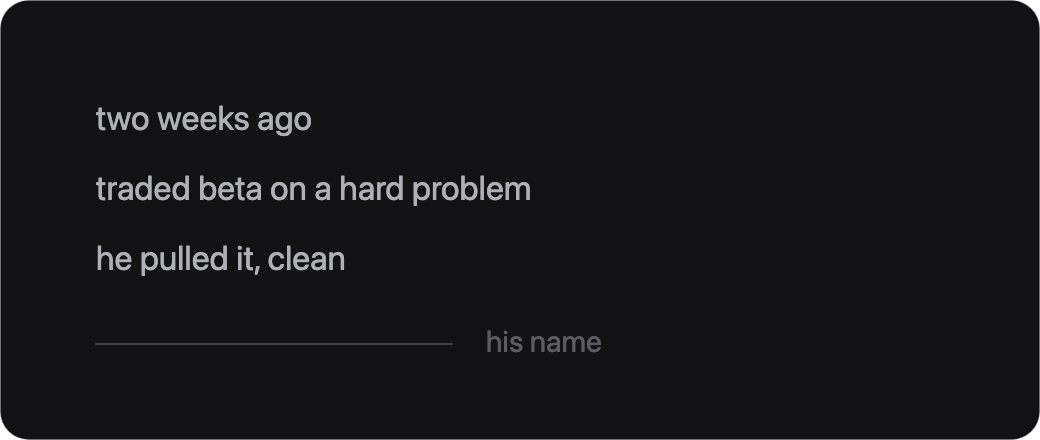
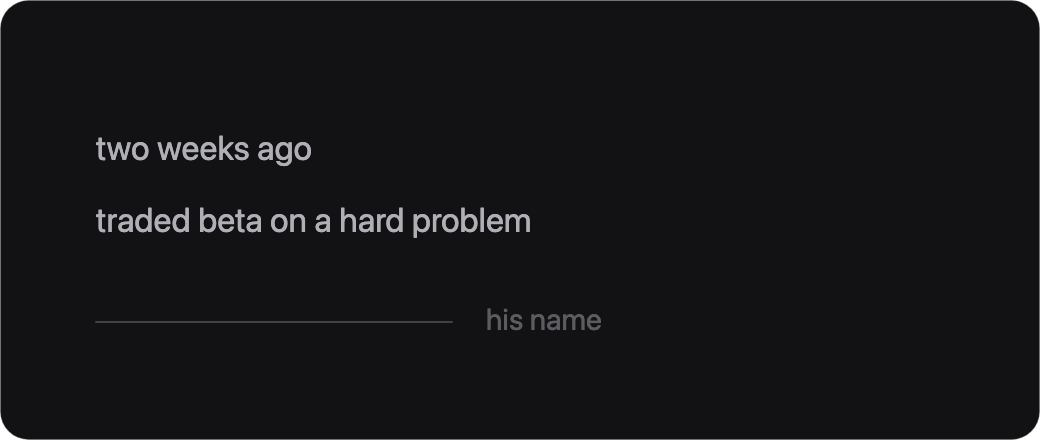
feat(field-notes): publish "I knew his face. I didn't know his name."
Broadcast fce18b48-8896-4f41-8188-b8a90e55b73e to the Atoms Notes segment.

Cut "he pulled it, clean" from the first figure. A punchy fragment that
survives inside Tai's own prose does not survive alone on an illustration
plate, where there are no surrounding sentences to earn the drama - it just
reads as trying too hard. Deleted rather than rewritten; two remembered
details and a blank line are stronger than three with a flourish.

Recorded as a hard rule in docs/voice.md (no dramatised beats; everything
gets louder set in type) and in the field-notes skill and email doc, so the
next agent does not reintroduce it.

diff --git a/www/dist/notes/knew-his-face/index.html b/www/dist/notes/knew-his-face/index.html
@@ -1,0 +1,101 @@
+<!doctype html>
+<html lang="en">
+  <head>
+    <meta charset="utf-8" />
+    <meta name="viewport" content="width=device-width, initial-scale=1" />
+    <title>I knew his face. I didn't know his name. · Field notes · Atoms</title>
+    <meta name="description" content="A guy at the climbing gym, a half-sentence in the car, and the moment the note came back." />
+    <meta name="color-scheme" content="dark light" />
+    <link rel="canonical" href="https://tryatoms.app/notes/knew-his-face/" />
+    <link rel="icon" type="image/svg+xml" href="/favicon.svg" />
+    <link rel="stylesheet" href="/a/styles.b4028b0e.css" />
+  </head>
+  <body class="notes-archive">
+    <nav class="topbar" aria-label="Site">
+      <div class="topbar-in">
+        <a class="topbar-mark" href="/">
+          <span class="sentinel" aria-hidden="true">↳</span> Atoms
+        </a>
+        <ul class="topbar-links">
+          <li><a href="/#how">How it works</a></li>
+          <li><a href="/#ask">Ask</a></li>
+          <li><a href="/#backfill">Catch up</a></li>
+          <li><a href="/#pricing">Pricing</a></li>
+          <li><a href="/notes/">Field notes</a></li>
+        </ul>
+        <a class="btn btn--primary btn--bar" href="/#pricing">Get Atoms</a>
+      </div>
+    </nav>
+    <main class="notes-main notes-main--issue">
+      <div class="wrap">
+        <p class="notes-crumb"><a href="/notes/">← All Field notes</a></p>
+        <h1>I knew his face. I didn't know his name.</h1>
+        <p class="notes-meta"><time datetime="2026-08-07">Aug 7, 2026</time></p>
+        <article class="notes-body">
+<aside class="notes-tldr"><div class="notes-tldr-label">Short version</div><p class="notes-tldr-p">Met someone at the gym. Forgot his name. Asked my notes who I'd met there. Got Dom back in two seconds, walked over, and said hi.</p><p class="notes-tldr-p">Capture is easy. Getting the note back when it matters is the hard part. That's what Atoms is for.</p></aside>
+<p class="notes-p">Two weeks ago I met a guy at my climbing gym. We ended up on the same hard problem, trading beta for a while. Then he pulled it. Clean. I still remember where I was standing.</p>
+<p class="notes-p">Last week I walked in and saw him across the gym. I knew his face. I knew we'd worked that route together. What I didn't have was his name.</p>
+<figure class="notes-figure"><img src="/email/fn-face-no-name.85602c61.png" alt="Two weeks ago, traded beta on a hard problem, and a blank line where his name should be" width="720" height="auto" loading="lazy" /></figure>
+<p class="notes-p">That's usually where it ends. You give the nod. You stay on your side of the gym. You quietly lose someone you actually liked talking to.</p>
+<h2 class="notes-h2">Two seconds</h2>
+<p class="notes-p">Instead I pulled out my phone and asked Claude who the most recent people I'd met at the gym were.</p>
+<figure class="notes-figure"><img src="/email/fn-ask-dom.4e867681.png" alt="Asked who I met at the gym. Answer: Dom, met two weeks ago" width="720" height="auto" loading="lazy" /></figure>
+<p class="notes-p">Dom. Back in about two seconds, with the context of when we met. I walked over, said hey Dom. He said hey, and called me Daniel.</p>
+<p class="notes-p">My name is not Daniel.</p>
+<h2 class="notes-h2">What actually matters</h2>
+<p class="notes-p">&quot;App remembers a name&quot; is not interesting on its own. Your phone already has a notes app. You've probably typed someone's name into it. Then you never opened it again, because that would mean remembering that you wrote something down, roughly when, and scrolling.</p>
+<p class="notes-p">That's the failure mode of every capture tool I've used. Voice memos, Apple Notes, paper, the list in my head. Good at taking a thought in. Useless at handing it back the moment I need it.</p>
+<p class="notes-p">That's what I've been building toward with Atoms. Notes that don't sit in a folder waiting for me to remember they exist. Wired to an agent that can reach them. Not &quot;search for a name I half-remember.&quot; Just: who did I meet recently. Plain language. Answered from my own life.</p>
+<p class="notes-p">Capture is the boring half. The connection is the product.</p>
+<p class="notes-p">I didn't type anything about Dom that night. I dictated a rambling half-sentence in the car. Messy, trailing off. It got filed as a clean note with his name in the title, a tag, and links to other people from that gym. I didn't name it, tag it, or pick a folder.</p>
+<figure class="notes-figure"><img src="/email/fn-messy-filed.418e76d1.png" alt="A rambling dictation trailing off, and the clean note it became: Dom, tagged gym and people" width="720" height="auto" loading="lazy" /></figure>
+<p class="notes-p">The version of me who couldn't be bothered to write it down properly is why the version of me two weeks later crossed the gym instead of nodding and walking away.</p>
+<p class="notes-p">Anyway. Dom, if you're reading this: great send, and my name is Tai.</p>
+<p class="notes-p">Want to be featured? Reply and show how you use Atoms day to day. We only name people with permission.</p>
+<p class="notes-cta"><a class="btn btn--primary" href="https://tryatoms.app/">Open tryatoms.app</a></p>
+        </article>
+        <section class="notes-signup" aria-label="Subscribe to Field notes">
+          <h2 class="notes-signup-title">Get the next one by email</h2>
+          <p class="notes-email-primary">New notes also arrive by email when you join the list.</p>
+          <form class="notes-form" data-notes-form novalidate>
+            <label class="notes-label" for="notes-knew-his-face-email">Email</label>
+            <div class="notes-row">
+              <input
+                id="notes-knew-his-face-email"
+                class="notes-input"
+                name="email"
+                type="email"
+                autocomplete="email"
+                inputmode="email"
+                required
+                placeholder="you@example.com"
+              />
+              <input
+                class="notes-hp"
+                type="text"
+                name="website"
+                tabindex="-1"
+                autocomplete="off"
+                aria-hidden="true"
+              />
+              <button class="btn btn--primary" type="submit">
+                Keep me in the loop
+              </button>
+            </div>
+            <p class="notes-hint">
+              Rare notes by email. Your stories welcome. Reply anytime after you
+              join.
+            </p>
+            <p
+              class="notes-status"
+              data-notes-status
+              role="status"
+              aria-live="polite"
+            ></p>
+          </form>
+        </section>
+      </div>
+    </main>
+    <script src="/a/app.bf77bc0d.js" defer></script>
+  </body>
+</html>

diff --git a/www/dist/notes/index.html b/www/dist/notes/index.html
@@ -34,7 +34,15 @@
           Occasional maker notes on a second brain in real life. Read any issue
           here. New ones also arrive by email.
         </p>
-        <p class="notes-empty">No notes published yet. Join the list and the first one lands in your inbox.</p>
+        <ul class="notes-list">
+      <li>
+        <a class="notes-card" href="/notes/knew-his-face/">
+          <span class="notes-card-title">I knew his face. I didn't know his name.</span>
+          <time class="notes-card-date" datetime="2026-08-07">Aug 7, 2026</time>
+          <span class="notes-card-tease">A guy at the climbing gym, a half-sentence in the car, and the moment the note came back.</span>
+        </a>
+      </li>
+    </ul>
         <section class="notes-signup" aria-label="Subscribe to Field notes">
           <h2 class="notes-signup-title">Get the next one by email</h2>
           <form class="notes-form" data-notes-form novalidate>

diff --git a/.agents/skills/field-notes/SKILL.md b/.agents/skills/field-notes/SKILL.md
@@ -65,6 +65,7 @@ Long notes always get a `tldr`. Featured invite near the end: “Want to be feat
 - **No box → arrow → box.** A blue arrow between two rounded rectangles is the single most generic thing you can draw.
 - **Colour is almost absent.** The whole three-figure set uses one amber tag, once. Everything else is white at three opacities. Amber `#ff9f0a` = a person; blue `#0a84ff` = the system answering. If you are reaching for a second accent, you are decorating.
 - **Only details the copy establishes.** Writing "tuesday night" into a figure when the letter never says Tuesday puts a false memory in the author's mouth. Pull specifics from the draft, not from your imagination.
+- **Plain recall, never a dramatised beat.** "he pulled it, clean" got cut for being cringe. A punchy fragment that survives inside Tai's prose does not survive alone on a plate, because type at that size has no sentences around it to earn the drama. Read every figure line as if it were the only sentence on screen. Cut rather than rewrite — two remembered details and a blank line beat three with a flourish. See `docs/voice.md` § Hard rules.
 - **Mind the display size.** Canvas is 1040px wide and shows at 520 in mail, so nothing under ~26px is legible. Big answers ~132px, titles ~56px, body 30–34px, labels 26–28px.
 - **Let scale and emptiness do the work.** The strongest figure in the set is a small question and an enormous name. The second strongest is three remembered details and one blank line. When a figure feels weak, remove an element rather than adding one.
 

diff --git a/docs/voice.md b/docs/voice.md
@@ -57,6 +57,8 @@ Grounded in shipped landing and home copy, `docs/design-handoff/tokens/README.md
 - **No “use case” / “use-case notes”** in user-facing marketing (sounds like a deck). Prefer *how people run it*, *practice*, *field notes*, *second brain in real life*.
 - **Numbers and locked pricing sentences** stay SSOT (`plus-pricing.json` / plugin helpers). Marketing must not invent trial or price claims.
 - **Body sacred** never gets a creative rewrite.
+- **No dramatised beats.** Punchy fragments that exist to sound cool: *he pulled it, clean* · *and just like that, it was there* · *one tap. done.* Tai's own prose earns a short beat because the sentences around it carry weight. Copy we write for him does not, and it reads as trying too hard. Say the plain thing.
+- **Set in type, everything gets louder.** A line that passes inside a paragraph can be cringe once it is alone on an illustration plate or a hero. Re-read every figure line, headline, and empty state as if it were the only sentence on screen, because it is. When in doubt, cut it rather than rewrite it — the blank usually reads better than the beat.
 
 ---
 

diff --git a/docs/field-notes-email.md b/docs/field-notes-email.md
@@ -73,6 +73,7 @@ Gmail and many clients **strip or block SVG**. Reliable path:
 - **No box → arrow → box.**
 - **Colour is almost absent.** One amber tag in the whole set. Everything else is white at three opacities.
 - **Only details the copy establishes** — an invented specific is a false memory in the author's mouth.
+- **Plain recall, never a dramatised beat.** Set in type on a plate, a punchy fragment has no surrounding sentences to earn it and reads as trying too hard. Cut rather than rewrite.
 - **Size for 520px.** Nothing under ~26px survives. Answers ~132px, titles ~56px, body 30–34px.
 - **Scale and emptiness do the work.** A small question and an enormous name; three remembered details and one blank line.
 
